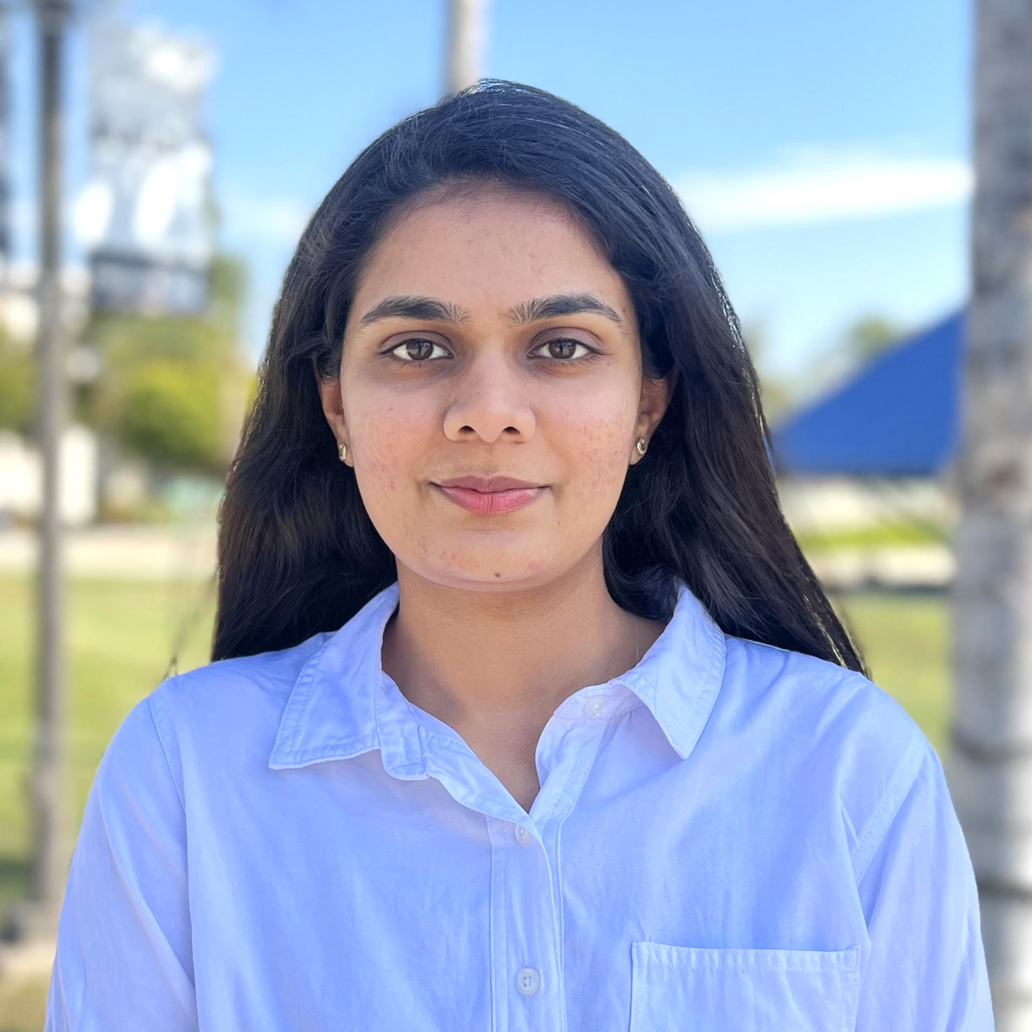
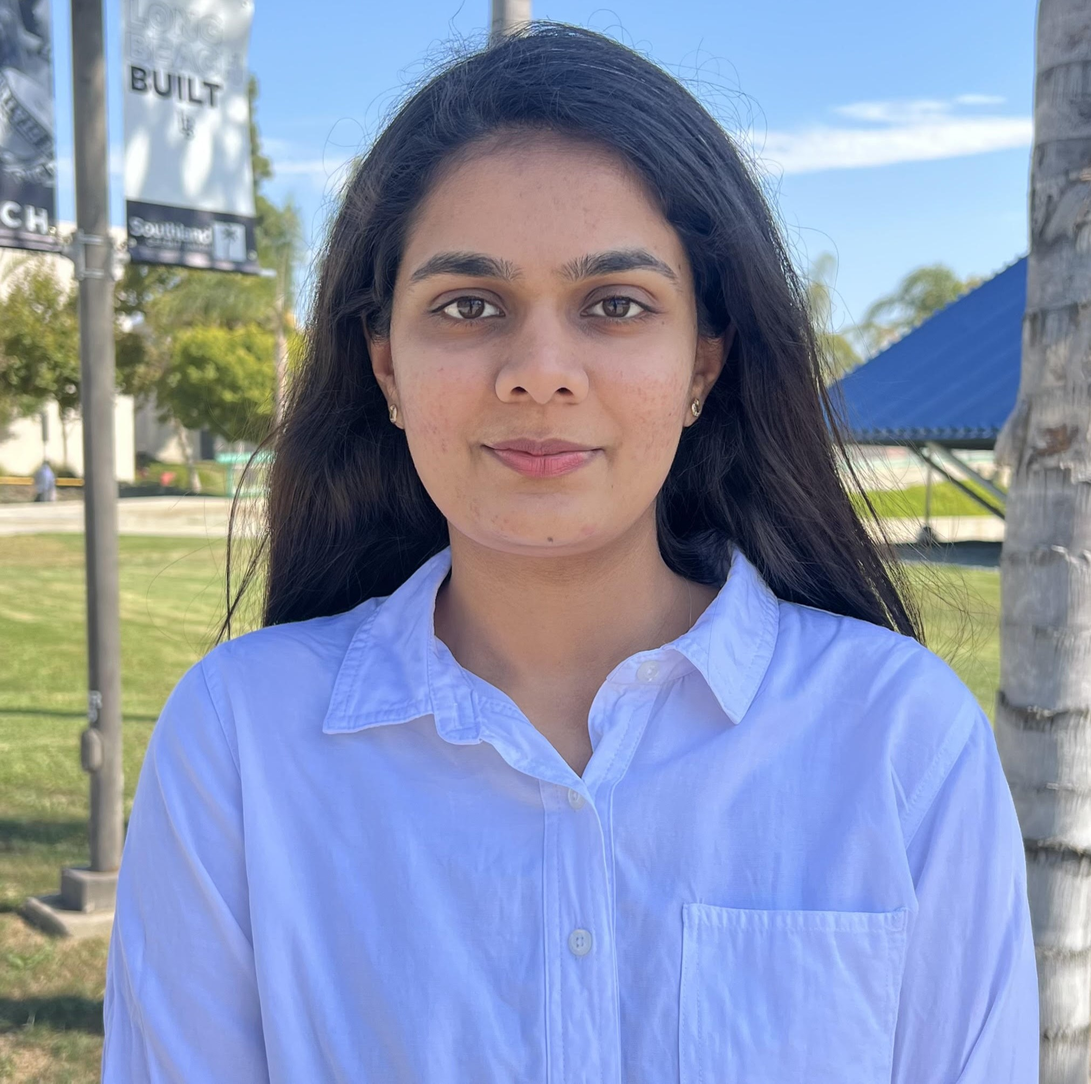
updated team photos

diff --git a/src/Data/members.tsx b/src/Data/members.tsx
@@ -1,98 +1,105 @@
 /*
-GROUP 1: WiC Officers
-GROUP 2: Website Committee
-GROUP 3: Design Committee
+GROUP 2: WiC Officers
+GROUP 3: Website Committee
+GROUP 4: Design Committee
 */
 
 export const members = [
   {
-    name: 'Cristina Le',
+    name: 'Jenna Koo',
     group: 1,
+    role: 'MarinaHacks Director',
+    img: 'images/team_photos/Jenna_K_4.0.jpg',
+    committeeType: "marinaHacksCommittee",
+  },
+
+  {
+    name: 'Cristina Le',
+    group: 2,
     role: 'President',
     img: 'images/team_photos/Cristina_L.JPG',
     committeeType: "officer",
   },
   {
     name: 'Citlally Vasquez-Gonzalez',
-    group: 1,
+    group: 2,
     role: 'Vice President',
     img: 'images/team_photos/Citlally_V.JPG',
     committeeType: 'officer',
   },
   {
     name: 'Jenna Koo',
-    group: 1,
+    group: 2,
     role: 'MarinaHacks Director',
-    img: 'images/team_photos/Jenna_K.JPG',
+    img: 'images/team_photos/Jenna_K_4.0.jpg',
     committeeType: "officer",
   },
   {
     name: 'Lizeth Valdovinos',
-    group: 1,
+    group: 2,
     role: 'Graphic Designer Lead',
-    img: 'images/team_photos/Liz_V.JPG',
+    img: 'images/team_photos/Lizeth_V_4.0.jpg',
     committeeType: 'officer',
   },
   {
+    name: 'Arwen Thea Saldana',
+    group: 2,
+    role: 'Co-Graphic Designer',
+    img: 'images/team_photos/Arwen_T.jpg',
+    committeeType: "officer",
+  },
+  {
     name: 'Anita Demirci',
-    group: 1,
+    group: 2,
     role: 'Co-Graphic Designer',
     img: 'images/team_photos/Anita_D.jpg',
     committeeType: 'officer',
   },
   {
-    name: 'Arwen Thea Saldana',
-    group: 1,
-    role: 'Co-Graphic Designer',
-    img: 'images/team_photos/Arwen_T.jpg',
-    committeeType: "officer",
-  },
-
-  {
     name: 'Reyna Aguirre-Okamune',
-    group: 1,
+    group: 2,
     role: 'Social Media Chair',
     img: 'images/team_photos/Reyna_Aguirre.JPG',
     committeeType: 'officer',
   },
   {
     name: 'My Lu',
-    group: 1,
+    group: 2,
     role: 'Webmaster',
     img: 'images/team_photos/My_Lu.JPG',
     committeeType: 'officer',
   },
   {
-    name: 'Lexi Nguyen',
-    group: 1,
-    role: 'Co-Sisterhood Coordinator',
-    img: 'images/team_photos/Lexi_Nguyen.JPG',
-    committeeType: 'officer',
-  },
-  {
     name: 'Daksha Arvind',
-    group: 1,
+    group: 2,
     role: 'Event Coordinator',
     img: 'images/team_photos/Daksha_A.JPG',
     committeeType: 'officer',
   },
   {
+    name: 'Lexi Nguyen',
+    group: 2,
+    role: 'Co-Sisterhood Coordinator',
+    img: 'images/team_photos/Lexi_N_4.0.jpg',
+    committeeType: 'officer',
+  },
+  {
     name: 'Kelly Pham',
-    group: 1,
+    group: 2,
     role: 'Treasurer',
-    img: 'images/team_photos/3.png',
+    img: 'images/team_photos/Kelly_P.jpg',
     committeeType: 'officer',
   },
   {
     name: 'Julie Truong',
-    group: 1,
+    group: 2,
     role: 'Secretary',
     img: 'images/team_photos/Julie_T.JPG',
     committeeType: "officer",
   },
   {
     name: 'Gaurav Paryani',
-    group: 1,
+    group: 2,
     role: 'School Outreach Co-Lead',
     img: 'images/team_photos/Gaurav_P.jpg',
     committeeType: "officer",
@@ -100,7 +107,7 @@ export const members = [
 
   {
     name: 'Mya Barragan',
-    group: 1,
+    group: 2,
     role: 'School Outreach Co-Lead',
     img: 'images/team_photos/Mya_B.JPG',
     committeeType: "officer",
@@ -108,105 +115,97 @@ export const members = [
 
   {
     name: 'Reyna Aguirre-Okamune',
-    group: 2,
+    group: 3,
     role: 'Website Lead',
     img: 'images/team_photos/Reyna_Aguirre.JPG',
     committeeType: "website",
   },
   {
     name: 'My Lu',
-    group: 2,
+    group: 3,
     role: 'Website Developer',
     img: 'images/team_photos/My_Lu.jpg',
     committeeType: "website",
   },
   {
+    name: 'Joshua-Michael Estebat',
+    group: 3,
+    role: 'Website & Portal Developer',
+    img: 'images/team_photos/Joshua-E.jpg',
+    committeeType: "website",
+  },
+  {
     name: 'Jesus Donate',
-    group: 2,
+    group: 3,
     role: 'Website Developer',
     img: 'images/team_photos/Jesus_Donate.JPG',
     committeeType: "website",
   },
   {
     name: 'Mekhi Hart Dela Cruz',
-    group: 2,
+    group: 3,
     role: 'MarinaMuse Project Lead',
-    img: 'images/team_photos/2.png',
+    img: 'images/team_photos/Mekhi_H.jpg',
     committeeType: "website",
   },
   {
     name: 'Justine Cruz',
-    group: 2,
+    group: 3,
     role: 'MarinaMuse Developer',
     img: 'images/team_photos/Justine_C.jpg',
     committeeType: "website",
   },
   {
     name: 'Krisha Hemani',
-    group: 2,
+    group: 3,
     role: 'MarinaMuse Developer',
-    img: 'images/team_photos/2.png',
+    img: 'images/team_photos/Krisha_H.jpg',
     committeeType: "website",
   },
   {
     name: 'Kelly Pham',
-    group: 2,
+    group: 3,
     role: 'Portal Project Lead',
-    img: 'images/team_photos/2.png',
-    committeeType: "website",
-  },
-  {
-    name: 'Prexa Kamani',
-    group: 2,
-    role: 'Portal Developer',
-    img: 'images/team_photos/Prexa_K.jpg',
+    img: 'images/team_photos/Kelly_P.jpg',
     committeeType: "website",
   },
   {
     name: 'Abhinav Bachu',
-    group: 2,
+    group: 3,
     role: 'Portal Developer',
     img: 'images/team_photos/Abhinav_B.JPG',
     committeeType: "website",
   },
   {
-    name: 'Joshua-Michael Estebat',
-    group: 2,
-    role: 'Portal & Website Developer',
-    img: 'images/team_photos/2.png',
+    name: 'Prexa Kamani',
+    group: 3,
+    role: 'Portal Developer',
+    img: 'images/team_photos/Prexa_K.jpg',
     committeeType: "website",
   },
   {
-    name: 'Melissa Marie Gandara',
-    group: 2,
-    role: 'Mobile App Project Lead',
-    img: 'images/team_photos/2.png',
+    name: 'Julie Truong',
+    group: 3,
+    role: 'Mobile App Developer',
+    img: 'images/team_photos/Julie_T.jpg',
     committeeType: "website",
   },
-  
 
 
 
   {
     name: 'Lizeth Valdovinos',
-    group: 3,
+    group: 4,
     role: 'Designer Co-Lead',
-    img: 'images/team_photos/Liz_V.JPG',
+    img: 'images/team_photos/Lizeth_V_4.0.jpg',
     committeeType: "designer",
   },
 
   {
     name: 'Citlally Vasquez-Gonzalez',
-    group: 3,
+    group: 4,
     role: 'Designer Co-Lead',
     img: 'images/team_photos/Citlally_V.JPG',
-    committeeType: "designer",
-  },
-    {
-    name: 'Lexi Nguyen',
-    group: 3,
-    role: 'Designer',
-    img: 'images/team_photos/Lexi_Nguyen.JPG',
     committeeType: "designer",
   },
 

diff --git a/src/views/Team.tsx b/src/views/Team.tsx
@@ -7,12 +7,29 @@ export const Team = () => {
       <div id ="team" className={styles.teamContainer}>
 
          <h1 className={`${styles.teamHeading} text-5xl mb-20`}>MarinaHacks Team</h1>
+         <div>
+                <h2 className={`${styles.teamSubHeading} ${styles.marinaHacksCommittee}`}>MarinaHacks 4.0 Director </h2>
+                <div className={`{$styles.memberContainer} mb-20` }>
+                    {/* Map Members of group member only */}
+                    {members.filter((member) => member.group === 1).map((item, index) => {
+                    return (
+                        <Profile 
+                            name={item.name} 
+                            role={item.role} 
+                            img={item.img} 
+                            key={index}
+                            committeeType="marinaHacksCommittee"
+                             />
+                    )
+                    })}
+                </div>
+            </div>
 
             <div>
                 <h2 className={`${styles.teamSubHeading} ${styles.officersCommittee}`}>Women in Computing Officers</h2>
                 <div className={styles.memberContainer}>
                     {/* Map Members of group member only */}
-                    {members.filter((member) => member.group === 1).map((item, index) => {
+                    {members.filter((member) => member.group === 2).map((item, index) => {
                     return (
                         <Profile 
                             name={item.name} 
@@ -31,7 +48,7 @@ export const Team = () => {
             <h2 className={`${styles.teamSubHeading} ${styles.websiteCommittee}`}>Website Committee</h2>
                 <div className={styles.memberContainer}>
                     {/* Map Members of group member only */}
-                    {members.filter((member) => member.group === 2).map((item, index) => {
+                    {members.filter((member) => member.group === 3).map((item, index) => {
                     return (
                         <Profile 
                             name={item.name} 
@@ -51,7 +68,7 @@ export const Team = () => {
             <h2 className={`${styles.teamSubHeading} ${styles.designCommittee}`}>Design Team</h2>
                 <div className={styles.memberContainer}>
                     {/* Map Members of group member only */}
-                    {members.filter((member) => member.group === 3).map((item, index) => {
+                    {members.filter((member) => member.group === 4).map((item, index) => {
                     return (
                         <Profile 
                             name={item.name} 

diff --git a/src/styles/team.module.css b/src/styles/team.module.css
@@ -1,15 +1,19 @@
 @import url('https://fonts.googleapis.com/css2?family=Sora:wght@100..800&display=swap');
 
+.marinaHacksCommittee {
+  background-color: rgba(242,110,172,1);
+}
+
 .officersCommittee {
-  background-color: #F26EAC;
+  background-color: rgba(242,110,172,0.8);
 }
 
 .websiteCommittee {
-  background-color: #b9b1f4;
+  background-color: #e9559a;
 }
 
 .designCommittee {
-  background-color: #f198c1;
+  background-color: #d26196;
 }
 
 .teamContainer {
